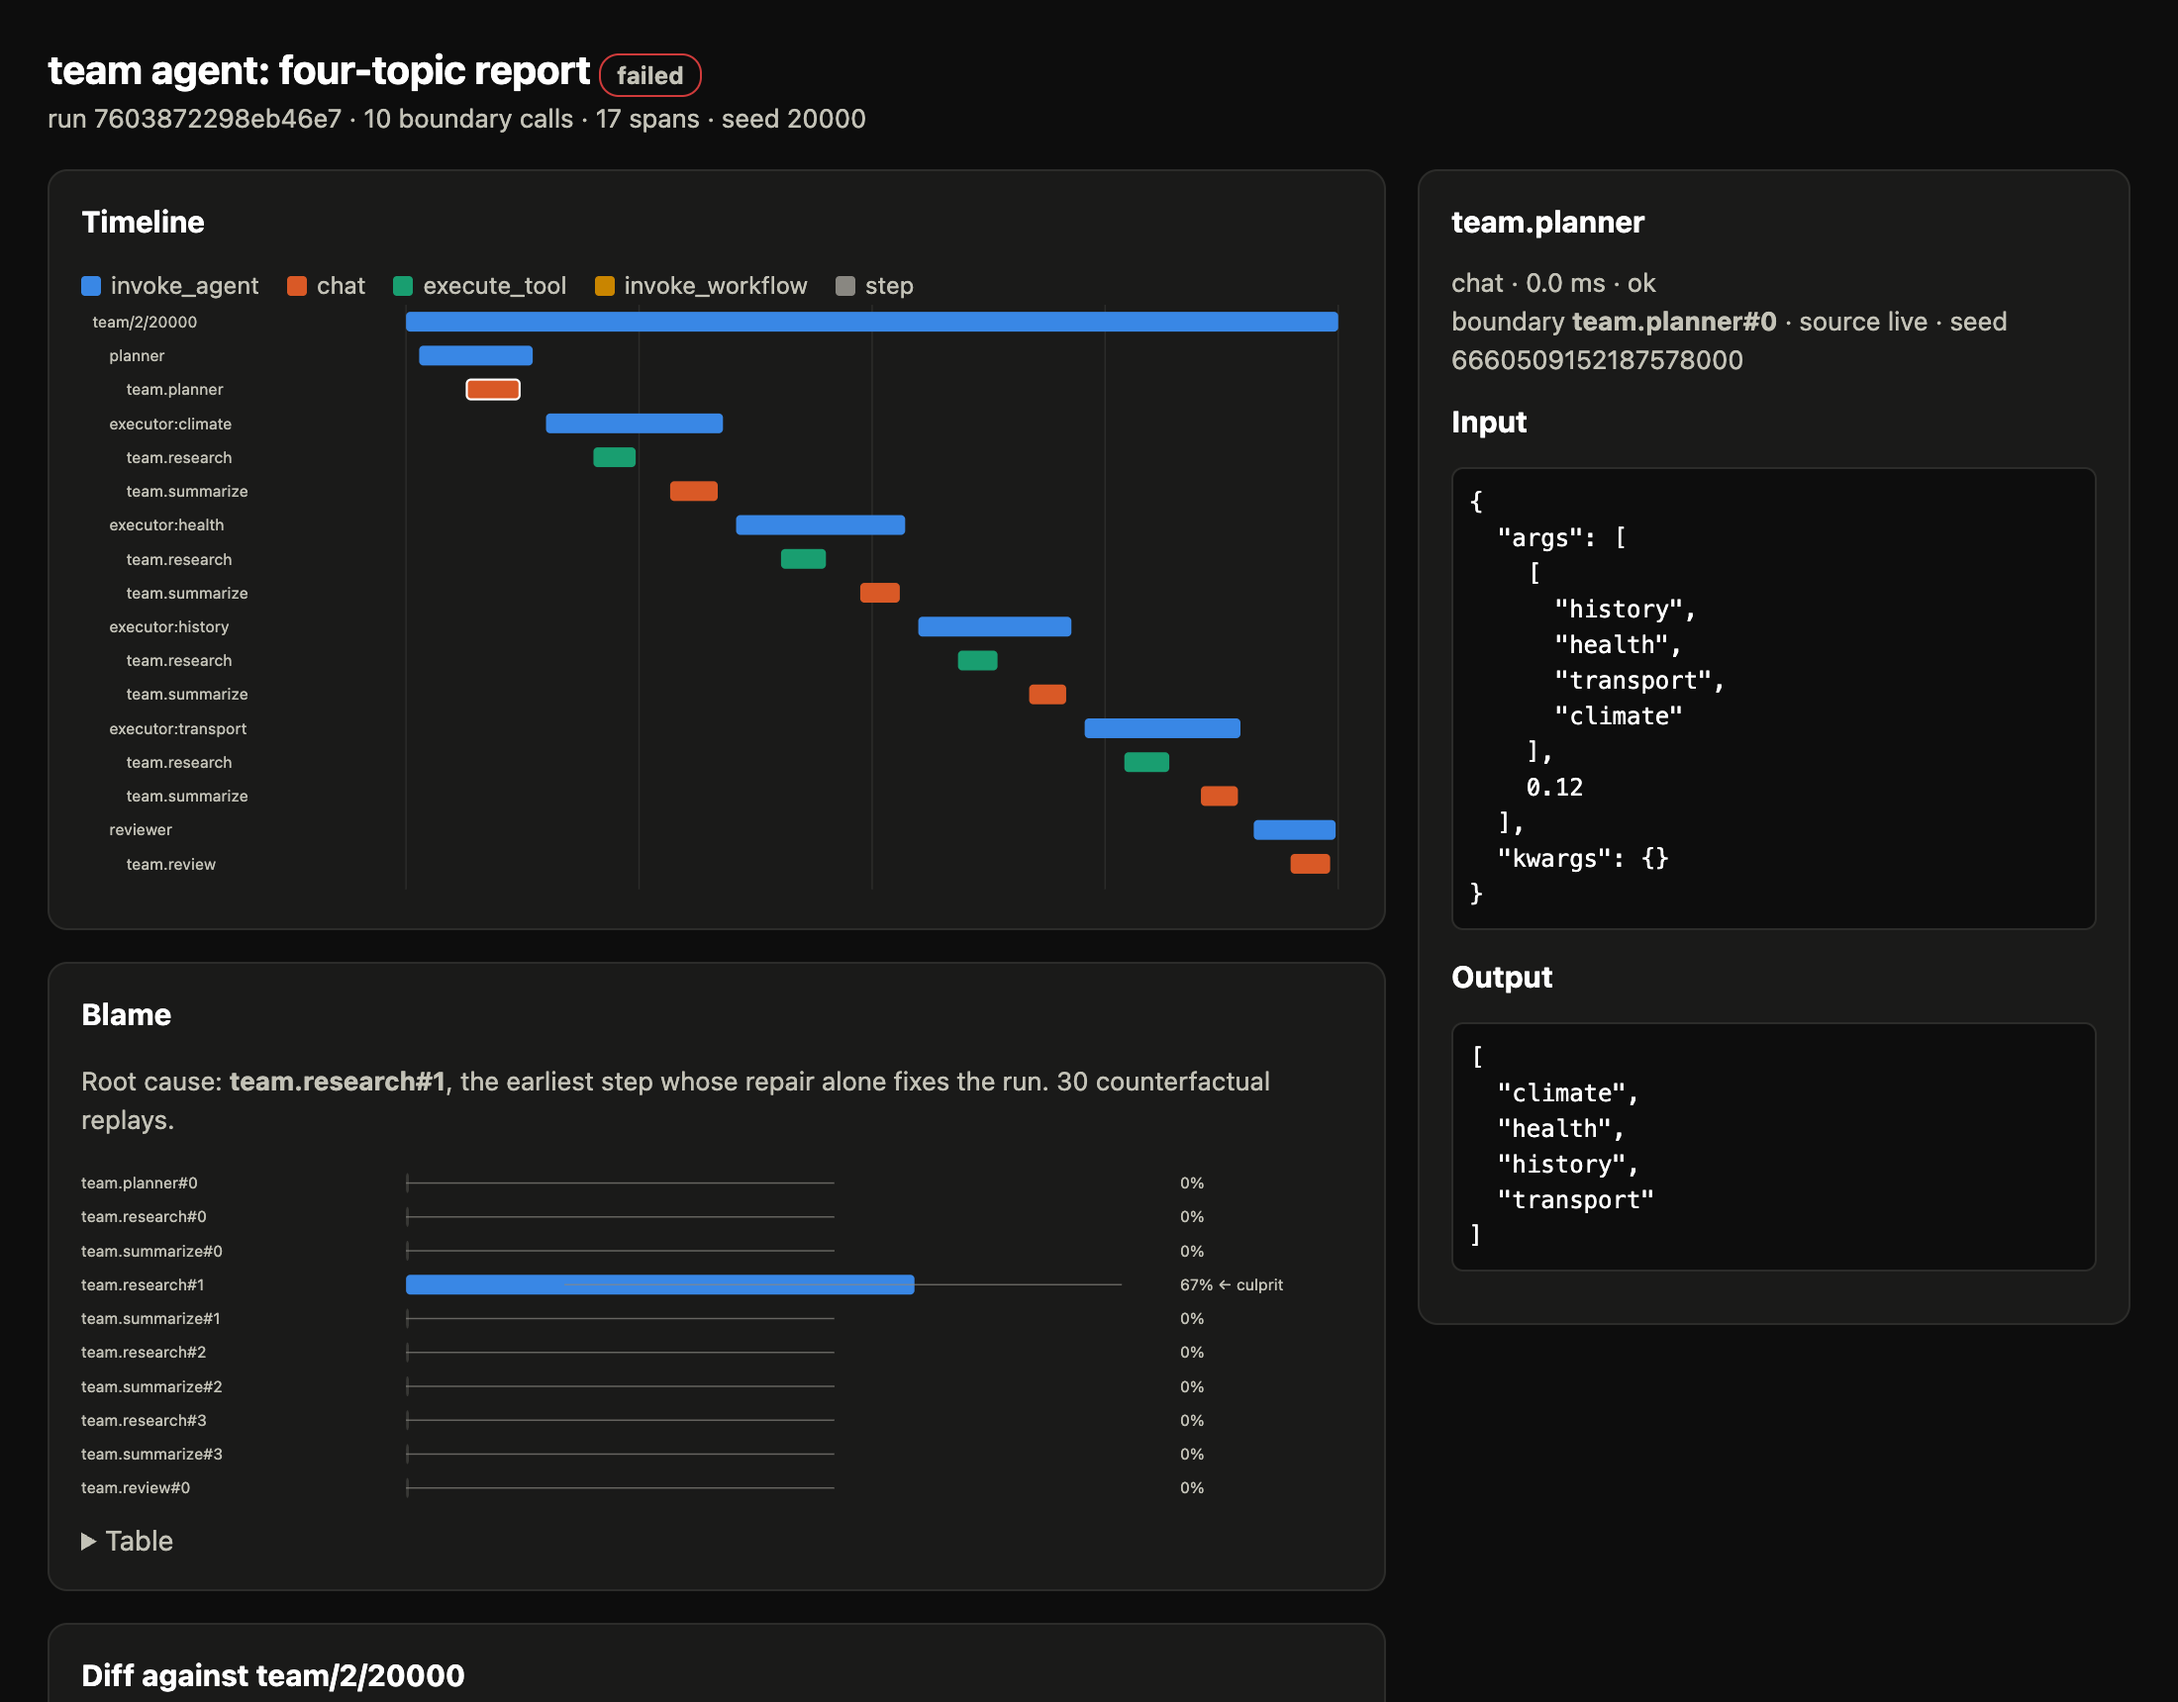
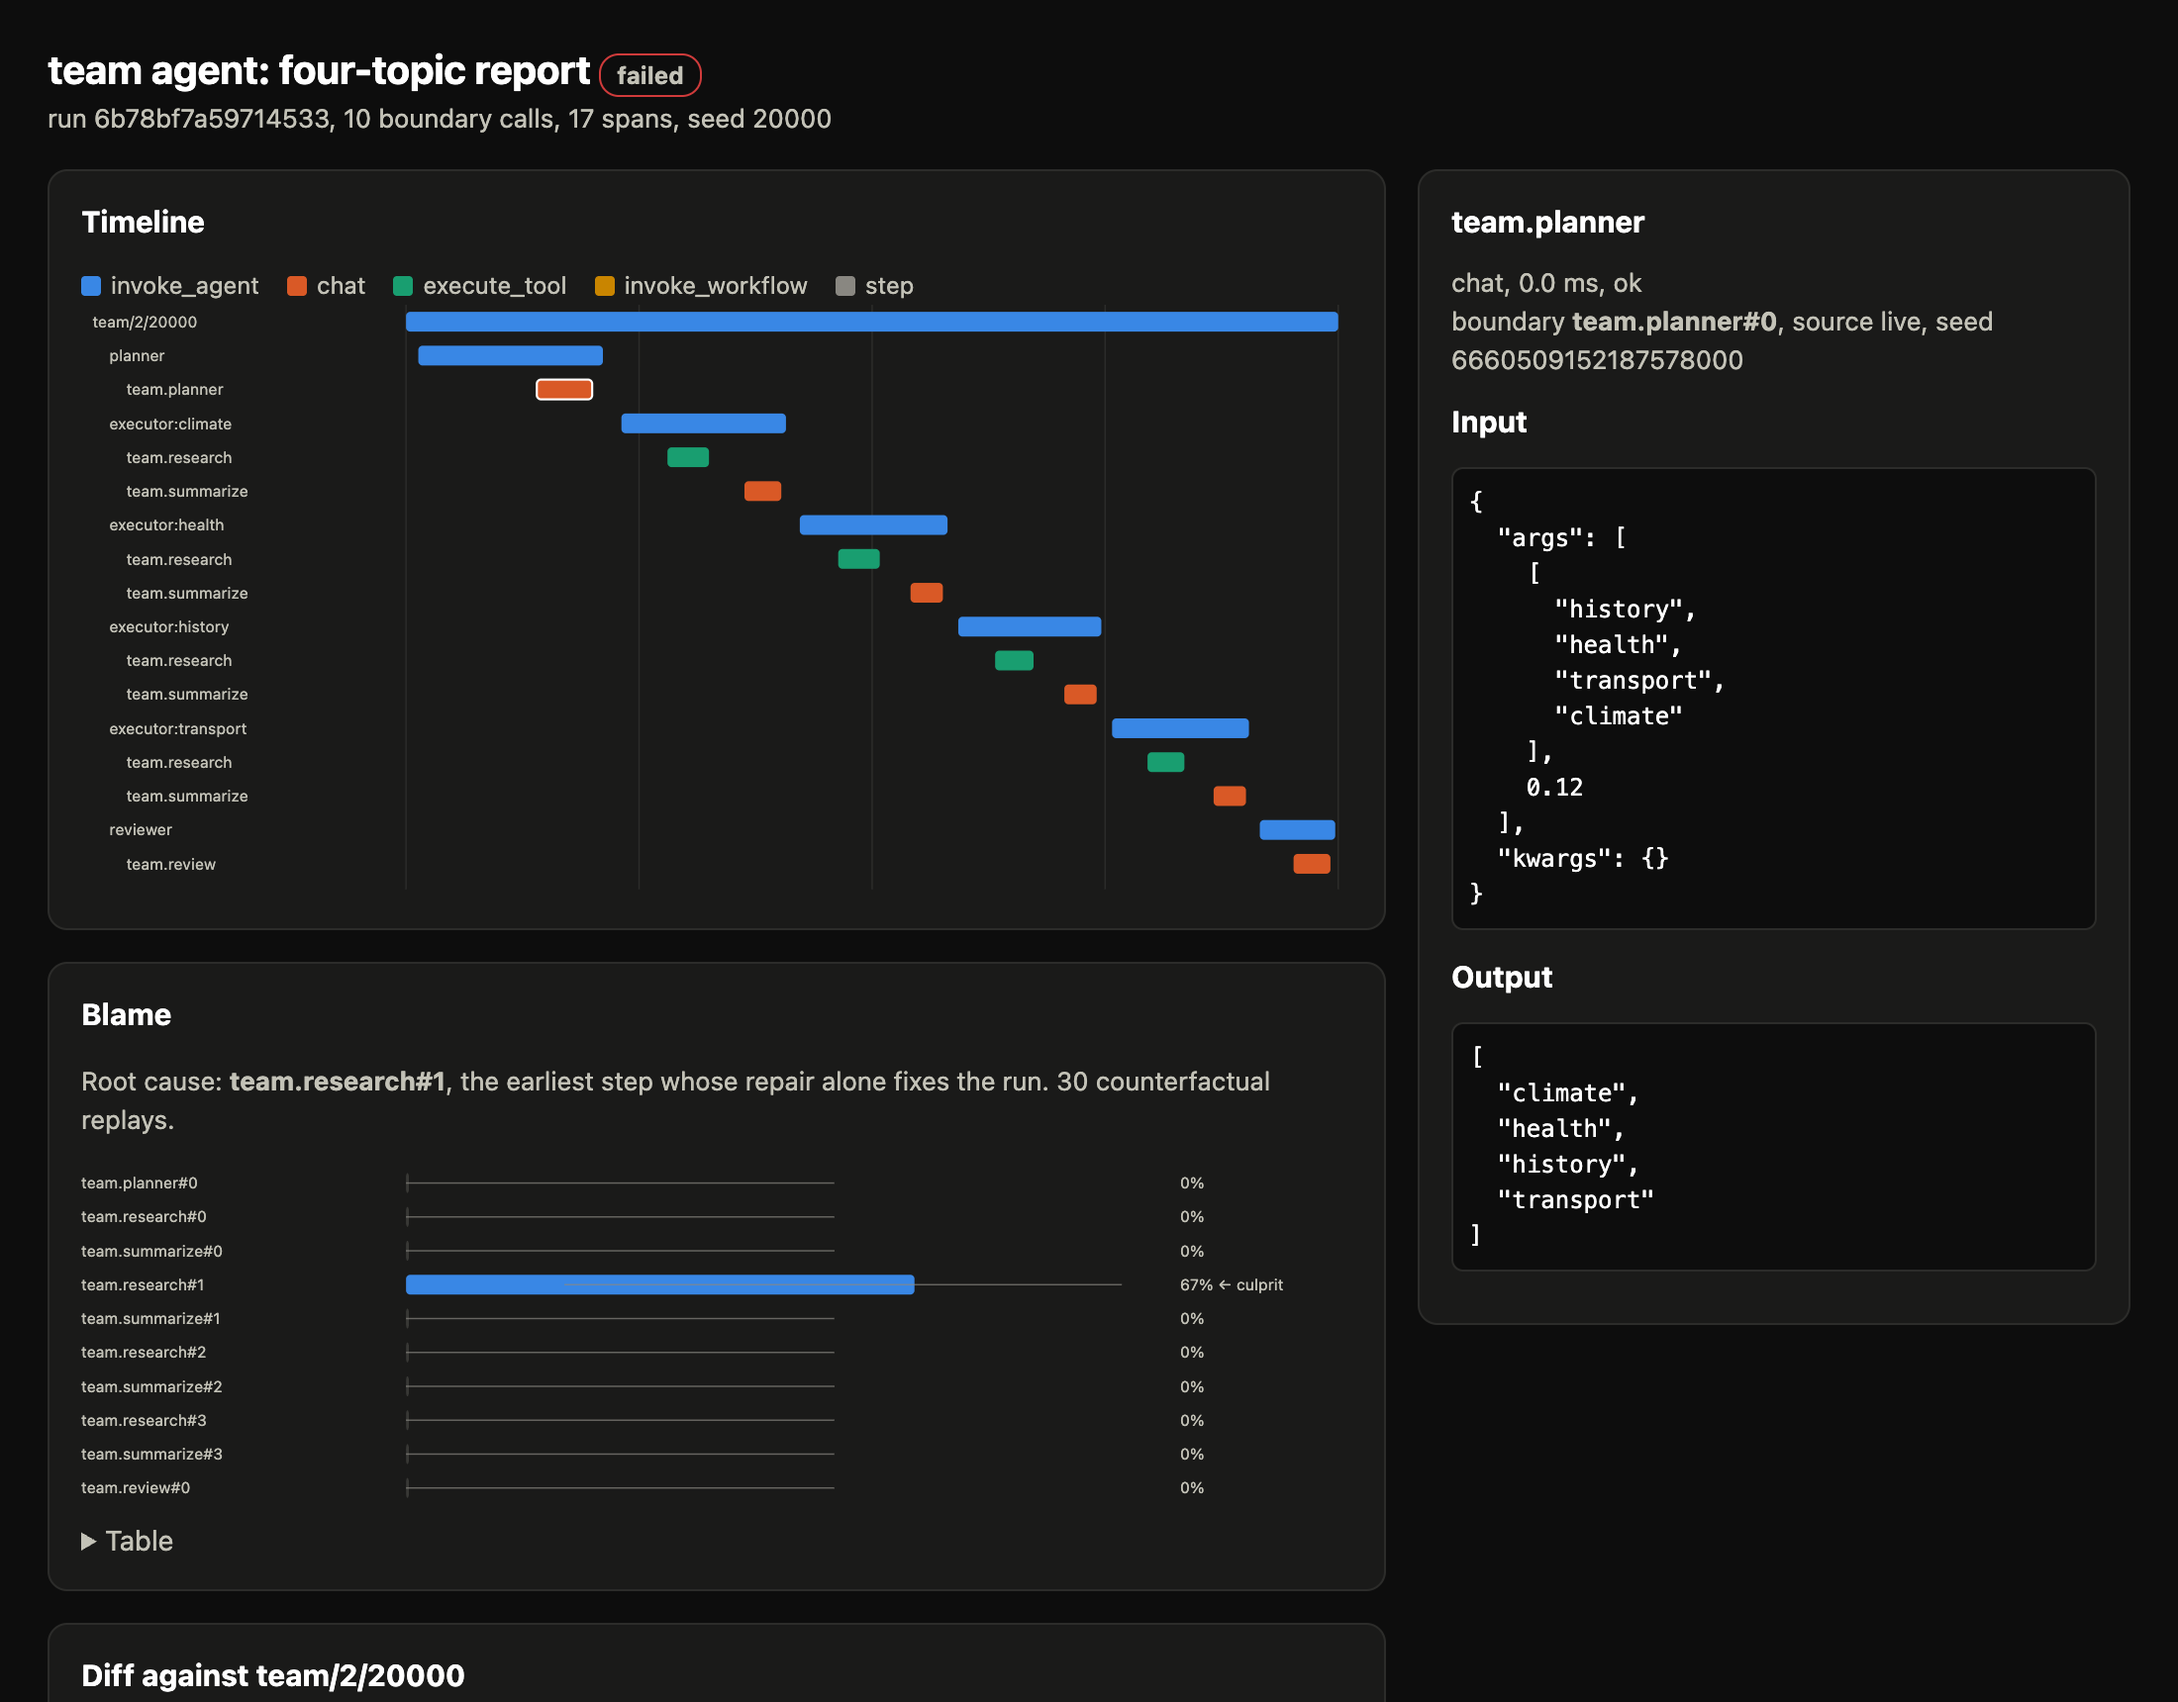
style: plain separators and dash bullets in the report and docs
Header and inspector details are separated by commas, missing diff cells use a
hyphen, docstring lists use dashes, and ranges are written out. Report
screenshots regenerated.

diff --git a/src/counterfact/report.py b/src/counterfact/report.py
@@ -61,8 +61,8 @@ function show(id) {
   document.querySelectorAll('.bar').forEach(b => b.classList.toggle('sel', b.dataset.id === id));
   const s = spans[id]; if (!s) return;
   const esc = t => String(t).replace(/[&<>]/g, c => ({'&':'&amp;','<':'&lt;','>':'&gt;'}[c]));
-  const b = s.boundary ? `<div class="sub">boundary <b>${esc(s.boundary.key)}</b> · source ${esc(s.boundary.source)} · seed ${s.boundary.seed}</div>` : '';
-  panel.innerHTML = `<h2>${esc(s.name)}</h2><div class="sub">${esc(s.kind)} · ${s.ms.toFixed(1)} ms · ${esc(s.status)}</div>${b}` +
+  const b = s.boundary ? `<div class="sub">boundary <b>${esc(s.boundary.key)}</b>, source ${esc(s.boundary.source)}, seed ${s.boundary.seed}</div>` : '';
+  panel.innerHTML = `<h2>${esc(s.name)}</h2><div class="sub">${esc(s.kind)}, ${s.ms.toFixed(1)} ms, ${esc(s.status)}</div>${b}` +
     (s.error ? `<pre>${esc(s.error)}</pre>` : '') +
     `<h2 style="margin-top:10px">Input</h2><pre>${esc(JSON.stringify(s.input, null, 2))}</pre>` +
     `<h2>Output</h2><pre>${esc(JSON.stringify(s.output, null, 2))}</pre>` +
@@ -154,7 +154,7 @@ def _blame_section(report: BlameReport) -> str:
     rows = "".join(
         f"<tr class='{'culprit' if e.key == culprit else ''}'><td>{html.escape(e.key)}</td>"
         f"<td class='num'>{e.successes}/{e.trials}</td><td class='num'>{e.success_rate:.0%}</td>"
-        f"<td class='num'>{e.low:.0%}–{e.high:.0%}</td></tr>"
+        f"<td class='num'>{e.low:.0%} to {e.high:.0%}</td></tr>"
         for e in effects
     )
     verdict = (
@@ -173,8 +173,8 @@ def _blame_section(report: BlameReport) -> str:
 def _diff_section(diff: RunDiff, right: Run) -> str:
     rows = []
     for row in diff.rows:
-        left_key = html.escape(row.left.key) if row.left else "—"
-        right_key = html.escape(row.right.key) if row.right else "—"
+        left_key = html.escape(row.left.key) if row.left else "-"
+        right_key = html.escape(row.right.key) if row.right else "-"
         rows.append(f"<tr><td>{left_key}</td><td>{right_key}</td><td>{row.status}</td></tr>")
     first = diff.first_divergence
     note = "Runs are identical." if first is None else f"First divergence at row {first}."
@@ -222,10 +222,10 @@ def render(run: Run, *, blame: BlameReport | None = None, compare: Run | None = 
     return (
         "<!doctype html><html lang='en'><head><meta charset='utf-8'>"
         "<meta name='viewport' content='width=device-width, initial-scale=1'>"
-        f"<title>Counterfact · {html.escape(run.name)}</title><style>{_CSS}</style></head><body>"
+        f"<title>Counterfact: {html.escape(run.name)}</title><style>{_CSS}</style></head><body>"
         f"<header><h1>{html.escape(run.name)} <span class='chip {status}'>{verdict}</span></h1>"
-        f"<div class='sub'>run {run.run_id} · {len(run.boundaries)} boundary calls · "
-        f"{len(run.spans)} spans · seed {run.seed}</div></header>"
+        f"<div class='sub'>run {run.run_id}, {len(run.boundaries)} boundary calls, "
+        f"{len(run.spans)} spans, seed {run.seed}</div></header>"
         f"<main><div>{''.join(sections)}</div><aside><section id='inspector'>"
         "<p class='sub'>Select a span.</p></section></aside></main>"
         f"<script id='cf-spans' type='application/json'>{payload}</script><script>{_JS}</script>"

diff --git a/src/counterfact/runtime.py b/src/counterfact/runtime.py
@@ -8,11 +8,11 @@ boundary, :func:`rng` returns a ``random.Random`` seeded with that noise.
 A :class:`Plan` decides how each boundary is resolved. This is Pearl's three-step
 counterfactual for agent traces:
 
-* **Abduction:** a recorded run supplies a tape of outputs plus the noise seed of
+- **Abduction:** a recorded run supplies a tape of outputs plus the noise seed of
   every boundary.
-* **Action:** :class:`Replace` or :class:`Resample` interventions change chosen
+- **Action:** :class:`Replace` or :class:`Resample` interventions change chosen
   boundaries.
-* **Prediction:** every other boundary reuses its recorded output when its inputs
+- **Prediction:** every other boundary reuses its recorded output when its inputs
   are unchanged (a memo hit). When its inputs changed, it re-executes with the
   *same* noise seed, so a fault that was caused downstream is reproduced, not
   accidentally healed.

diff --git a/src/counterfact/pytest_plugin.py b/src/counterfact/pytest_plugin.py
@@ -2,10 +2,10 @@
 
 Fixtures:
 
-* ``cf_record(agent, check=None, name=None)``: run an agent under recording and
+- ``cf_record(agent, check=None, name=None)``: run an agent under recording and
   return the :class:`~counterfact.model.Run`. With ``--counterfact-db PATH`` every
   recorded run is also saved for later inspection (``counterfact report``).
-* ``cf_tape(agent, name, check=None)``: replay the tape ``tests/tapes/<name>.tape.json``
+- ``cf_tape(agent, name, check=None)``: replay the tape ``tests/tapes/<name>.tape.json``
   (or ``--counterfact-tapes DIR``), recording it first if it does not exist yet. After
   the first recording the test runs offline, with no API keys. Use
   ``--counterfact-record`` to re-record.

diff --git a/README.md b/README.md
@@ -12,7 +12,7 @@ right, and everything else had happened exactly as it did, would the run have pa
 answers by replaying the agent with that one step repaired.
 
 On FaultBench, 180 failing runs with known root causes, this finds the culprit in
-**97%** of runs (95% CI 94–99%). Picking the first error or the last step finds it in 18%.
+**97%** of runs (95% CI 94% to 99%). Picking the first error or the last step finds it in 18%.
 
 <picture>
   <source media="(prefers-color-scheme: dark)" srcset="docs/assets/blame-dark.gif">

diff --git a/docs/how-it-works.md b/docs/how-it-works.md
@@ -88,7 +88,7 @@ about log₂(steps) + 2 replays.
 
 ## Diff
 
-`diff_runs` aligns two runs' boundary calls by name with Needleman–Wunsch alignment,
+`diff_runs` aligns two runs' boundary calls by name with Needleman-Wunsch alignment,
 so inserted, removed or repeated calls don't shift every later row. Each aligned pair is
 then classified as `same`, `input-changed`, `output-changed`, `only-left` or
 `only-right`. The first row that isn't `same` is where the runs diverge.
